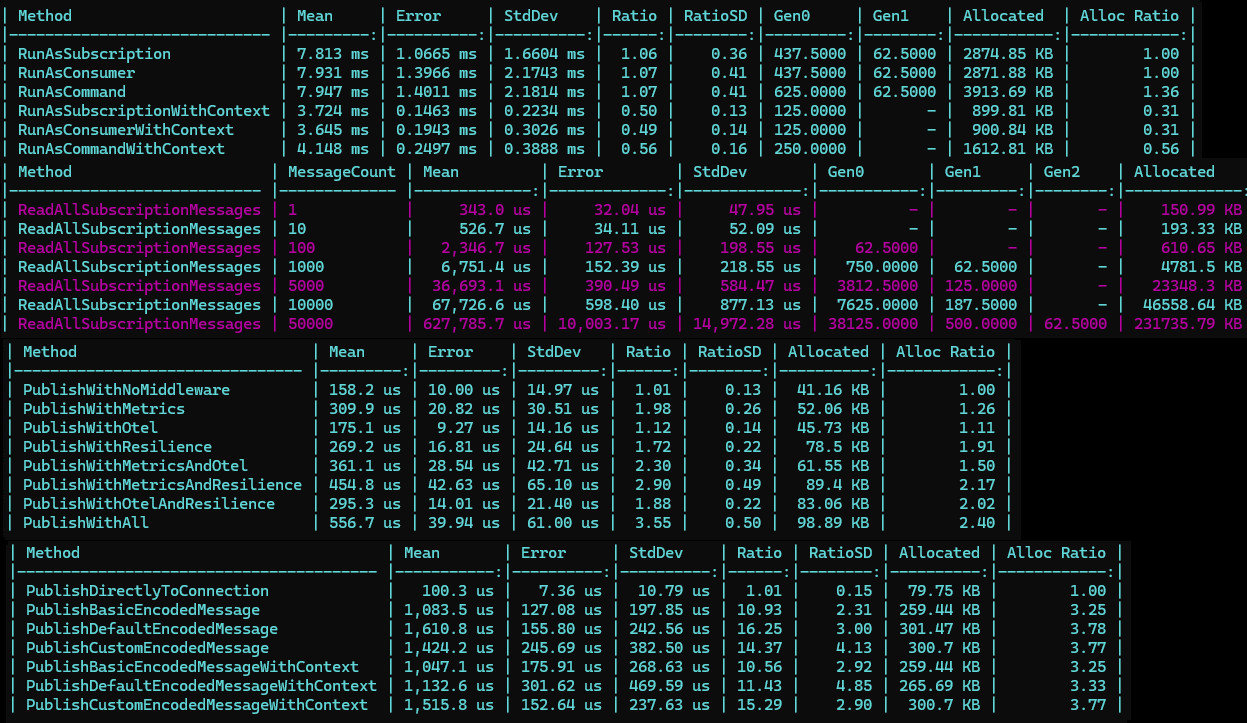
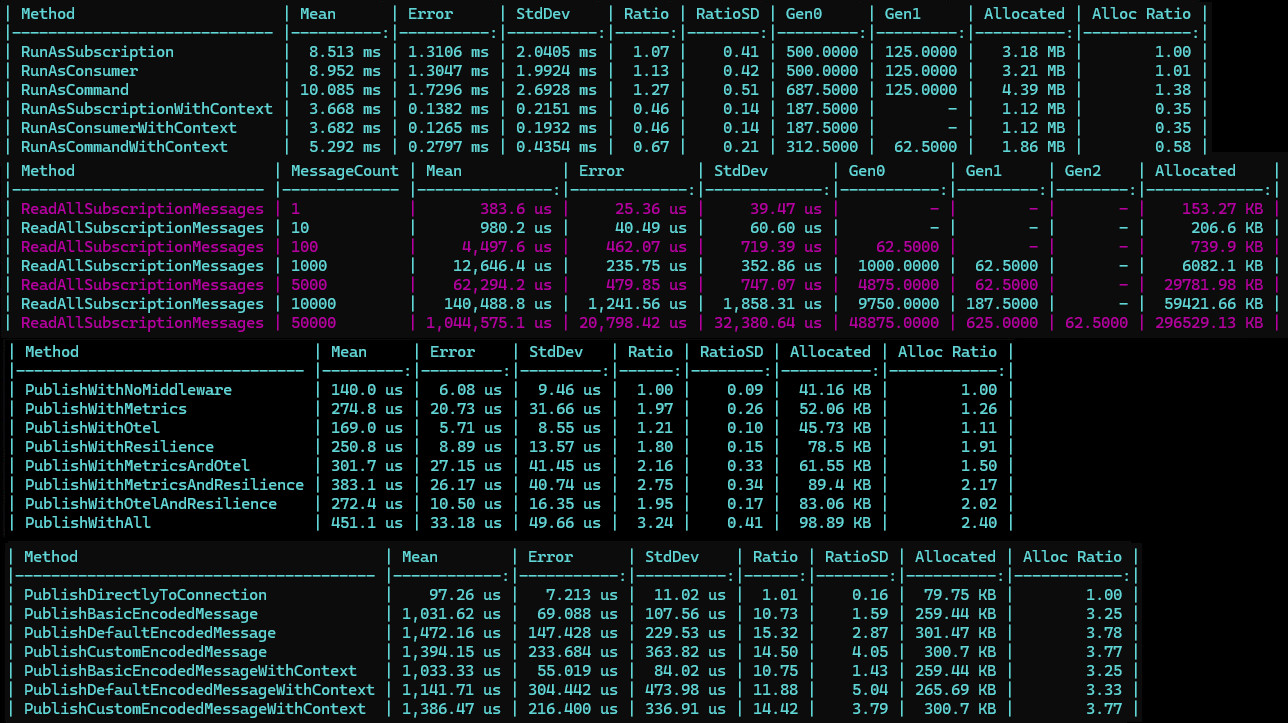
updating performance numbers
updating performance numbers

Changed region(s): [[0.0, 0.0, 1.0, 0.7303], [0.0, 0.7607, 0.9142, 1.0]]

diff --git a/Connectors/InMemory/MessageChannel.cs b/Connectors/InMemory/MessageChannel.cs
@@ -15,6 +15,7 @@ namespace MQContract.InMemory
         });
         private readonly ConcurrentDictionary<string, MessageGroup> groups = [];
         private readonly CancellationTokenSource cancelToken = new();
+        private bool disposedValue;
 
         public MessageChannel()
         {
@@ -29,12 +30,7 @@ namespace MQContract.InMemory
         }
 
         public void Close()
-        {
-            channel.Writer.TryComplete();
-            if (!cancelToken.IsCancellationRequested)
-                cancelToken.Cancel();
-            groups.Clear();
-        }
+            => ((IDisposable)this).Dispose();
 
         private async ValueTask<TransmissionResult> TryPublishAsync(InternalServiceMessage serviceMessage, CancellationToken cancellationToken)
         {
@@ -121,9 +117,27 @@ namespace MQContract.InMemory
                 null
             );
 
+        protected virtual void Dispose(bool disposing)
+        {
+            if (!disposedValue)
+            {
+                if (disposing)
+                {
+                    channel.Writer.TryComplete();
+                    if (!cancelToken.IsCancellationRequested)
+                        cancelToken.Cancel();
+                    groups.Clear();
+                    ((IDisposable)cancelToken).Dispose();
+                }
+                disposedValue=true;
+            }
+        }
+
         public void Dispose()
         {
-            ((IDisposable)cancelToken).Dispose();
+            // Do not change this code. Put cleanup code in 'Dispose(bool disposing)' method
+            Dispose(disposing: true);
+            GC.SuppressFinalize(this);
         }
     }
 }
